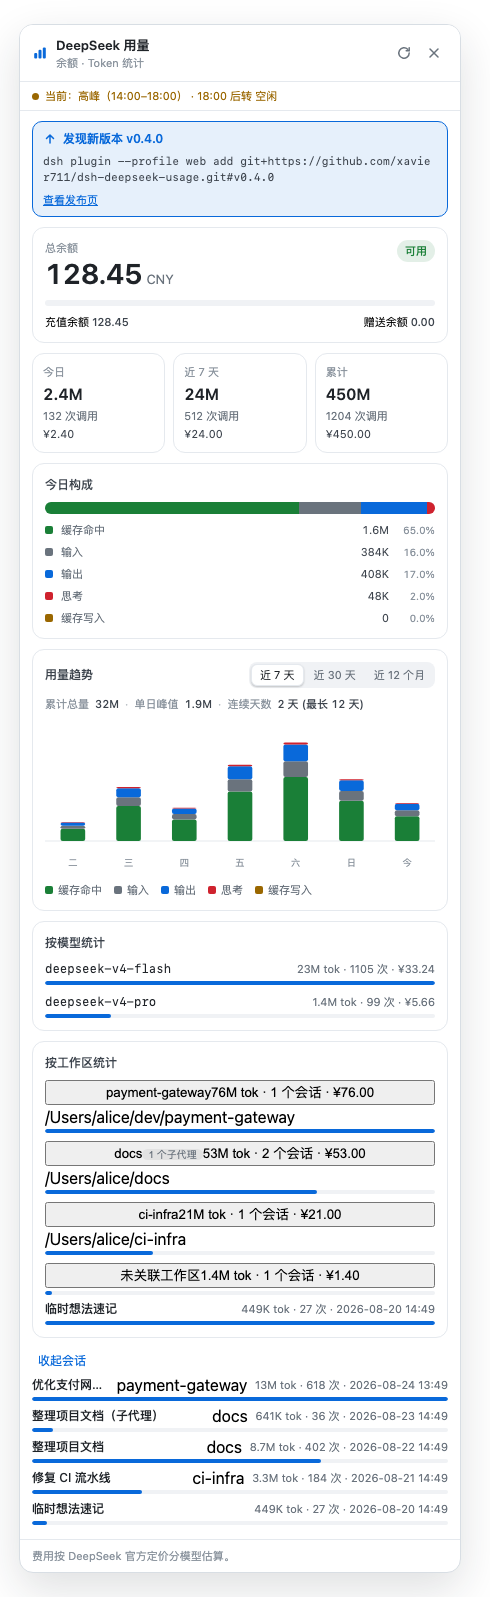
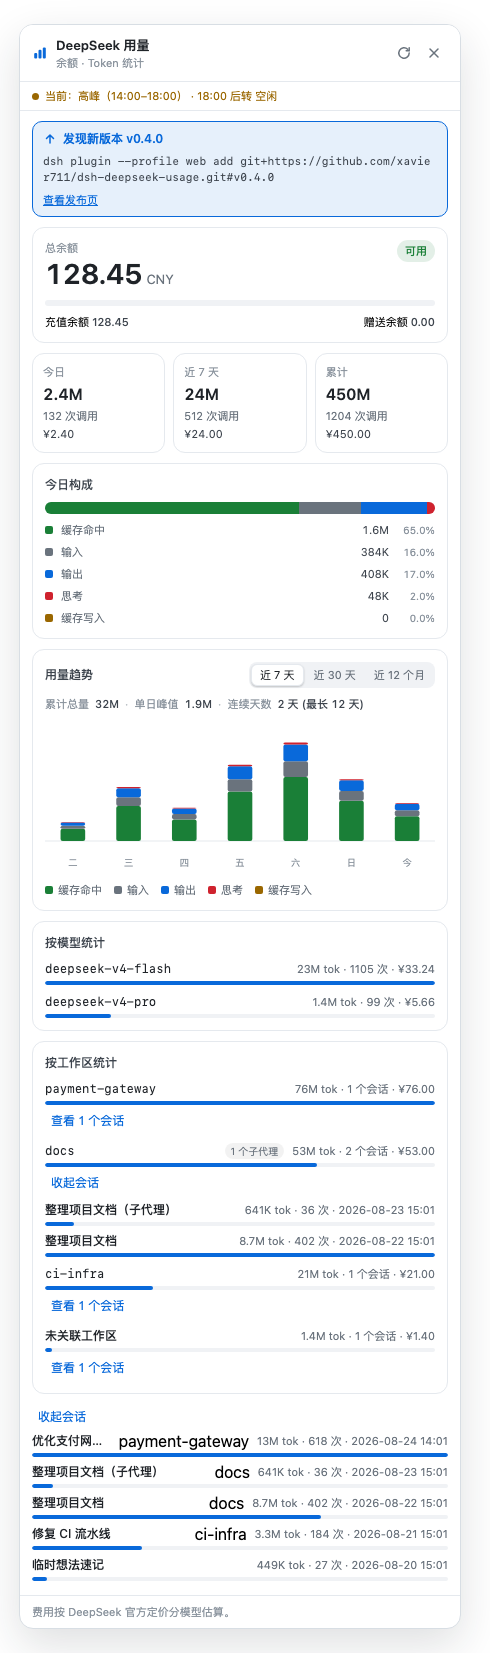
v0.4.0: 按工作区统计区块对齐现有面板设计语言
- 工作区行完全复用「按模型统计」的 modelRow 模式：名称/元信息/费用条 +
  悬停 tooltip（标题显示完整路径）；去掉自绘的 button 头与路径小字行
- 会话记录沿用「会话明细」的折叠展开样式：每个工作区一行「查看 N 个会话」开关
- 截图按新布局重新生成（展开 docs 工作区 + 全局会话明细）

diff --git a/screenshots/render-test.html b/screenshots/render-test.html
@@ -187,7 +187,7 @@ window.__ZH = {
   const SAMPLE = {
  "/dsh-usage/balance": {
   "ok": true,
-  "fetchedAt": 1787554188927,
+  "fetchedAt": 1787554879692,
   "isAvailable": true,
   "currency": "CNY",
   "totalBalance": "128.45",
@@ -196,13 +196,13 @@ window.__ZH = {
  },
  "/dsh-usage/local": {
   "ok": true,
-  "fetchedAt": 1787554188927,
+  "fetchedAt": 1787554879692,
   "sessionCount": 3,
   "errorSessions": 0,
   "pricing": {
    "currency": "CNY",
    "note": "official",
-   "newPricingAt": 1787554188927,
+   "newPricingAt": 1787554879692,
    "weekendOffPeakAt": 1787414400000,
    "peakHours": [
     [
@@ -4001,8 +4001,8 @@ window.__ZH = {
     "title": "优化支付网关性能",
     "workspace": "/Users/alice/dev/payment-gateway",
     "subagent": false,
-    "createdAt": 1787467788927,
-    "lastActiveAt": 1787550588927,
+    "createdAt": 1787468479692,
+    "lastActiveAt": 1787551279692,
     "calls": 618,
     "inputTokens": 1900000,
     "outputTokens": 2100000,
@@ -4017,8 +4017,8 @@ window.__ZH = {
     "title": "整理项目文档",
     "workspace": "/Users/alice/docs",
     "subagent": false,
-    "createdAt": 1787381388927,
-    "lastActiveAt": 1787381388927,
+    "createdAt": 1787382079692,
+    "lastActiveAt": 1787382079692,
     "calls": 402,
     "inputTokens": 1300000,
     "outputTokens": 1500000,
@@ -4033,8 +4033,8 @@ window.__ZH = {
     "title": "修复 CI 流水线",
     "workspace": "/Users/alice/ci-infra",
     "subagent": false,
-    "createdAt": 1787294988927,
-    "lastActiveAt": 1787294988927,
+    "createdAt": 1787295679692,
+    "lastActiveAt": 1787295679692,
     "calls": 184,
     "inputTokens": 500000,
     "outputTokens": 600000,
@@ -4049,8 +4049,8 @@ window.__ZH = {
     "title": "整理项目文档（子代理）",
     "workspace": "/Users/alice/docs",
     "subagent": true,
-    "createdAt": 1787381388927,
-    "lastActiveAt": 1787467788927,
+    "createdAt": 1787382079692,
+    "lastActiveAt": 1787468479692,
     "calls": 36,
     "inputTokens": 90000,
     "outputTokens": 110000,
@@ -4065,8 +4065,8 @@ window.__ZH = {
     "title": "临时想法速记",
     "workspace": null,
     "subagent": false,
-    "createdAt": 1787208588927,
-    "lastActiveAt": 1787208588927,
+    "createdAt": 1787209279692,
+    "lastActiveAt": 1787209279692,
     "calls": 27,
     "inputTokens": 60000,
     "outputTokens": 80000,
@@ -4120,8 +4120,8 @@ window.__ZH = {
       "id": "s1",
       "title": "优化支付网关性能",
       "subagent": false,
-      "createdAt": 1787467788927,
-      "lastActiveAt": 1787550588927,
+      "createdAt": 1787468479692,
+      "lastActiveAt": 1787551279692,
       "calls": 618,
       "inputTokens": 1900000,
       "outputTokens": 2100000,
@@ -4174,8 +4174,8 @@ window.__ZH = {
       "id": "s2",
       "title": "整理项目文档",
       "subagent": false,
-      "createdAt": 1787381388927,
-      "lastActiveAt": 1787381388927,
+      "createdAt": 1787382079692,
+      "lastActiveAt": 1787382079692,
       "calls": 402,
       "inputTokens": 1300000,
       "outputTokens": 1500000,
@@ -4188,8 +4188,8 @@ window.__ZH = {
       "id": "s4",
       "title": "整理项目文档（子代理）",
       "subagent": true,
-      "createdAt": 1787381388927,
-      "lastActiveAt": 1787467788927,
+      "createdAt": 1787382079692,
+      "lastActiveAt": 1787468479692,
       "calls": 36,
       "inputTokens": 90000,
       "outputTokens": 110000,
@@ -4242,8 +4242,8 @@ window.__ZH = {
       "id": "s3",
       "title": "修复 CI 流水线",
       "subagent": false,
-      "createdAt": 1787294988927,
-      "lastActiveAt": 1787294988927,
+      "createdAt": 1787295679692,
+      "lastActiveAt": 1787295679692,
       "calls": 184,
       "inputTokens": 500000,
       "outputTokens": 600000,
@@ -4296,8 +4296,8 @@ window.__ZH = {
       "id": "s5",
       "title": "临时想法速记",
       "subagent": false,
-      "createdAt": 1787208588927,
-      "lastActiveAt": 1787208588927,
+      "createdAt": 1787209279692,
+      "lastActiveAt": 1787209279692,
       "calls": 27,
       "inputTokens": 60000,
       "outputTokens": 80000,
@@ -4312,7 +4312,7 @@ window.__ZH = {
  },
  "/dsh-usage/version": {
   "ok": true,
-  "checkedAt": 1787554188927,
+  "checkedAt": 1787554879692,
   "installed": "0.1.0",
   "latest": "0.4.0",
   "updateAvailable": true,
@@ -4320,7 +4320,7 @@ window.__ZH = {
  },
  "/dsh-usage/period": {
   "ok": true,
-  "now": 1787554188926,
+  "now": 1787554879692,
   "period": "peak",
   "range": [
    840,
@@ -4389,11 +4389,18 @@ window.__ZH = {
   // once the local-usage sections are on screen.
   setTimeout(() => {
     try {
-      const wsHeads = document.querySelectorAll('.du-workspaceHead');
-      for (const h of wsHeads) {
-        if (h.textContent.includes('docs')) { h.dispatchEvent(new MouseEvent('click', { bubbles: true })); break; }
+      const wsRows = document.querySelectorAll('.du-modelRow');
+      for (const row of wsRows) {
+        if (row.textContent.includes('docs')) {
+          const tg = row.querySelector('.du-sessionToggle');
+          if (tg) tg.dispatchEvent(new MouseEvent('click', { bubbles: true }));
+          break;
+        }
       }
-      const toggle = document.querySelector('.du-sessionToggle');
+      // Workspace rows render their toggles before the global one, so the
+      // global session toggle is the LAST .du-sessionToggle on the page.
+      const toggles = document.querySelectorAll('.du-sessionToggle');
+      const toggle = toggles[toggles.length - 1];
       if (toggle) toggle.dispatchEvent(new MouseEvent('click', { bubbles: true }));
       meta.textContent = 'expanded';
     } catch (err) { meta.textContent = 'expand-err:' + err.message; }

diff --git a/lib/client.js b/lib/client.js
@@ -132,11 +132,6 @@ window.__ModuleLoader__.load({
 .du-sessionBar{background:var(--dsw-alias-fill-l2);border-radius:999px;flex:none;height:4px;overflow:hidden}
 .du-sessionBar>span{background:var(--dsw-alias-state-business-primary);border-radius:999px;height:100%;display:block}
 .du-sessionWs{color:var(--dsw-alias-label-tertiary);background:var(--dsw-alias-fill-l2);border-radius:6px;flex:none;max-width:110px;text-overflow:ellipsis;white-space:nowrap;padding:0 5px;font-size:10px;line-height:15px;overflow:hidden}
-.du-workspaceHead{box-sizing:border-box;flex:none;align-items:center;gap:8px;min-width:0;width:100%;color:inherit;cursor:pointer;background:0 0;border:none;padding:0;font-family:inherit;text-align:left;display:flex}
-.du-workspaceHead:hover .du-workspaceName{color:var(--dsw-alias-state-business-primary)}
-.du-workspaceName{min-width:0;color:var(--dsw-alias-label-primary);text-overflow:ellipsis;white-space:nowrap;flex:1;font-size:12px;font-weight:500;line-height:18px;overflow:hidden}
-.du-workspaceMeta{color:var(--dsw-alias-label-tertiary);flex:none;font-size:11px;line-height:18px}
-.du-workspacePath{color:var(--dsw-alias-label-caption);text-overflow:ellipsis;white-space:nowrap;font-family:var(--dsh-font-mono,monospace);font-size:10px;line-height:14px;overflow:hidden}
 .du-loading{color:var(--dsw-alias-label-tertiary);margin:4px 0;font-size:12px;line-height:18px}
 .du-skel{display:block}
 .du-skelCard{box-sizing:border-box;border:1px solid var(--dsw-alias-border-l2);border-radius:12px;flex-direction:column;gap:10px;min-width:0;padding:12px;display:flex;margin:10px auto}
@@ -624,8 +619,10 @@ window.__ModuleLoader__.load({
 
     /**
      * Per-workspace usage rows (workspace = the session's working directory),
-     * cost-scaled bars like the model list; each row expands to its own
-     * session records. Hover shows the full token/cost breakdown.
+     * mirroring the per-model list exactly: cost-scaled bar, hover tooltip
+     * with the full token/cost breakdown (heading = the full path). Each
+     * workspace expands its own session records through the same collapsible
+     * pattern as the global session list.
      */
     function WorkspaceStats({ workspaces, t }) {
       const [tip, show, hide] = useChartTip();
@@ -636,29 +633,27 @@ window.__ModuleLoader__.load({
         workspaces.map((w) => {
           const total = w.buckets.total;
           const name = w.name ?? t("local.workspaceUnassigned");
-          const content = react.createElement(TipBody, { heading: name, rows: tipRows(total, t) });
+          const content = react.createElement(TipBody, { heading: w.path ?? name, rows: tipRows(total, t) });
           const open = expanded === w.path;
           return react.createElement("div", { className: styles.modelRow, key: w.path ?? "", onMouseEnter: (e) => show(e, content), onMouseLeave: hide },
-            react.createElement("button", {
-              type: "button",
-              className: styles.workspaceHead,
-              "aria-expanded": open,
-              onClick: () => setExpanded(open ? null : w.path)
-            },
-              react.createElement("span", { className: styles.workspaceName, title: w.path ?? undefined }, name),
+            react.createElement("div", { className: styles.modelHead },
+              react.createElement("span", { className: styles.modelName, title: w.path ?? undefined }, name),
               w.subagentSessionCount > 0
                 ? react.createElement("span", { className: styles.estimatedBadge }, t("local.workspaceSubagents", { count: w.subagentSessionCount }))
                 : null,
-              react.createElement("span", { className: styles.workspaceMeta },
+              react.createElement("span", { className: styles.modelMeta },
                 t("local.workspaceMeta", { tokens: fmtCompact(bucketTokens(total)), sessions: w.sessionCount, cost: fmtCost(total.cost) })
               )
             ),
-            w.path !== null
-              ? react.createElement("div", { className: styles.workspacePath, title: w.path }, w.path)
-              : null,
             react.createElement("div", { className: styles.modelBar },
               react.createElement("span", { style: { width: `${(total.cost / maxCost) * 100}%` } })
             ),
+            react.createElement("button", {
+              type: "button",
+              className: styles.sessionToggle,
+              "aria-expanded": open,
+              onClick: () => setExpanded(open ? null : w.path)
+            }, open ? t("local.sessionHide") : t("local.sessionToggle", { count: w.sessionCount })),
             open ? react.createElement(SessionList, { sessions: w.sessions, t }) : null
           );
         }),

diff --git a/screenshots/gen-render-test.js b/screenshots/gen-render-test.js
@@ -359,11 +359,18 @@ ${zhSource}
   // once the local-usage sections are on screen.
   setTimeout(() => {
     try {
-      const wsHeads = document.querySelectorAll('.du-workspaceHead');
-      for (const h of wsHeads) {
-        if (h.textContent.includes('docs')) { h.dispatchEvent(new MouseEvent('click', { bubbles: true })); break; }
+      const wsRows = document.querySelectorAll('.du-modelRow');
+      for (const row of wsRows) {
+        if (row.textContent.includes('docs')) {
+          const tg = row.querySelector('.du-sessionToggle');
+          if (tg) tg.dispatchEvent(new MouseEvent('click', { bubbles: true }));
+          break;
+        }
       }
-      const toggle = document.querySelector('.du-sessionToggle');
+      // Workspace rows render their toggles before the global one, so the
+      // global session toggle is the LAST .du-sessionToggle on the page.
+      const toggles = document.querySelectorAll('.du-sessionToggle');
+      const toggle = toggles[toggles.length - 1];
       if (toggle) toggle.dispatchEvent(new MouseEvent('click', { bubbles: true }));
       meta.textContent = 'expanded';
     } catch (err) { meta.textContent = 'expand-err:' + err.message; }
